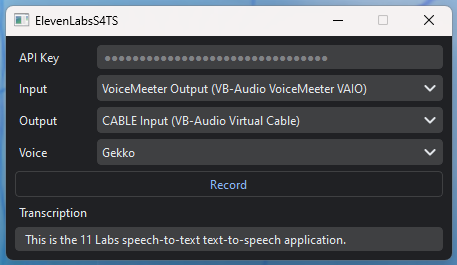
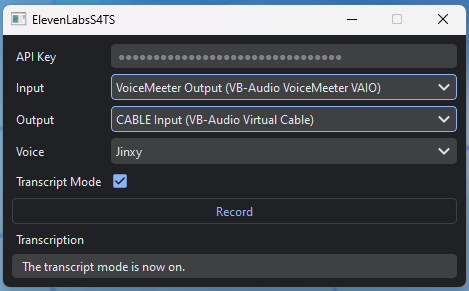
Add transcript mode

diff --git a/ui.py b/ui.py
@@ -4,7 +4,8 @@ import threading
 from PySide6 import QtGui
 from PySide6.QtCore import Qt
 from PySide6.QtMultimedia import QMediaPlayer, QAudioOutput, QMediaDevices
-from PySide6.QtWidgets import QMainWindow, QGridLayout, QWidget, QLabel, QApplication, QLineEdit, QComboBox, QPushButton
+from PySide6.QtWidgets import QMainWindow, QGridLayout, QWidget, QLabel, QApplication, QLineEdit, QComboBox, \
+    QPushButton, QCheckBox
 
 import record
 import whisper
@@ -53,6 +54,9 @@ class ElevensLabS4TS(QMainWindow):
         self.output_combo.addItems([device.description() for device in self.audio_output_devices])
         self.output_combo.currentIndexChanged.connect(self.on_output_combo_index_changed)
 
+        self.transcript_mode_label = QLabel("Transcript Mode")
+        self.transcript_mode_checkbox = QCheckBox()
+
         self.record_button = QPushButton("Record")
         self.record_button.pressed.connect(self.on_record_button)
         self.record_button.released.connect(self.on_stop_button)
@@ -71,10 +75,13 @@ class ElevensLabS4TS(QMainWindow):
         self.layout.addWidget(self.output_label, 2, 0)
         self.layout.addWidget(self.output_combo, 2, 1)
 
-        self.layout.addWidget(self.record_button, 4, 0, 1, 2)
+        self.layout.addWidget(self.transcript_mode_label, 4, 0)
+        self.layout.addWidget(self.transcript_mode_checkbox, 4, 1)
 
-        self.layout.addWidget(self.transcript, 5, 0)
-        self.layout.addWidget(self.transcription_preview, 6, 0, 1, 2)
+        self.layout.addWidget(self.record_button, 5, 0, 1, 2)
+
+        self.layout.addWidget(self.transcript, 6, 0)
+        self.layout.addWidget(self.transcription_preview, 7, 0, 1, 2)
 
         # Set layout for central widget
         self.widget = QWidget()
@@ -133,8 +140,9 @@ class ElevensLabS4TS(QMainWindow):
         text = whisper.whisper_transcribe(file)
         self.transcription_preview.setText(text)
         self.tts.tts(text, self.voice_combo.currentText())
-        self.media_player.setSource('elevenlabs.wav')
-        self.media_player.play()
+        if not self.transcript_mode_checkbox.isChecked():
+            self.media_player.setSource('elevenlabs.wav')
+            self.media_player.play()
 
     def on_api_key_input(self):
         self.api_key_input.setDisabled(True)
